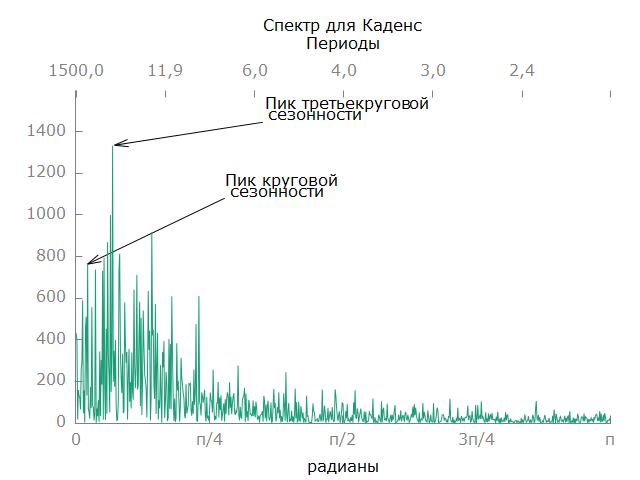
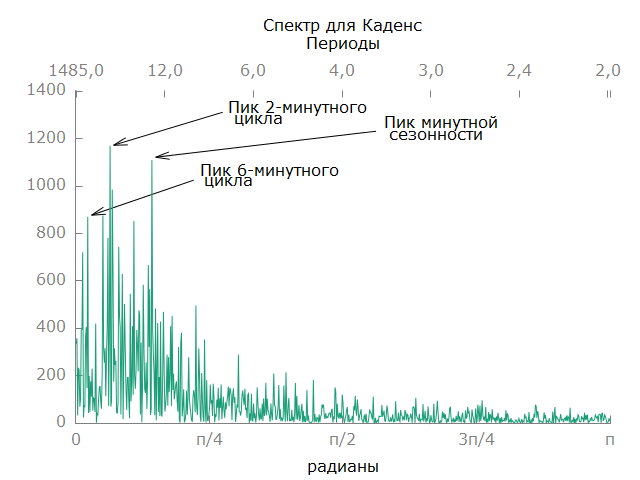
fix minutes

diff --git a/[text]/main.tex b/[text]/main.tex
@@ -10,7 +10,7 @@
 
 \section{Описание данных}
 % Период времени и тип данных
-Частота измерений каждые 4 секунды. Величину стандартного интервала наблюдений принимаем равным среднему времени прохождения спортсменом одного круга (около 6 минут).
+Частота измерений каждые 4 секунды. Величину стандартного интервала наблюдений принимаем равным одной минуте (содержит 15 измерений). 15 наблюдений откладываем для проверки прогностической способности моделей.
 
 % Гипотезы
 
@@ -33,7 +33,7 @@
 	\label{fig:hr_acf_100}
 \end{figure}
 
-График автокорреляции (рис. \ref{fig:hr_acf_100}) убывает медленно, предполагается наличие тренда. На графике видны колебания с периодом в треть круга (лаг 30), полкруга (лаг 45) и круг (лаг 88). При анализе графика значений зависимой переменной (рис. \ref{fig:hr_graph}) также хорошо видны круговые колебания. По виду графиков можно говорить о наличии периодического тренда с периодом, равным среднему времени прохождения спортсменом круга.
+График автокорреляции (рис. \ref{fig:hr_acf_100}) убывает медленно, предполагается наличие тренда. На графике видны колебания с периодом в 2 минуты (лаг 30), 3 минуты (лаг 45) и 6 минут (лаг 88). При анализе графика значений зависимой переменной (рис. \ref{fig:hr_graph}) также хорошо видны колебания в 6 минут. По виду графиков можно говорить о наличии циклического тренда с периодом, равным среднему времени прохождения спортсменом круга (около 6 минут).
 
 % Анализ спектрограммы
 \textbf{\textit{Анализ спектрограммы}}
@@ -45,17 +45,18 @@
 	\label{fig:hr_spectr}
 \end{figure}
 
-При анализе графика (рис. \ref{fig:hr_spectr}) видны пики вблизи нулевой частоты, они свидетельствуют о потенциальном наличии долгосрочного тренда. На графике также видны несколько пиков в циклической области спектра, следовательно, в данном ряде могут присутствовать циклы. 
-В сезонной части спектра на частоте $f = 0,07121 \approx \frac{\pi}{44}$ значение спектральной частоты равно $Sd = 2847,9$, указанная частота соответствует периоду круга. 
-На частоте $f = 0,14242 \approx \frac{\pi}{22}$ значение спектральной частоты равно $Sd = 665,40$, указанная частота соответствует периоду полукруга. 
-На частоте $f = 0,21363 \approx \frac{\pi}{15}$ значение спектральной частоты равно $Sd = 730,46$, указанная частота соответствует периоду в треть круга. Гармоническая составляющая в указанном ряду является хорошо выраженной.
+При анализе графика (рис. \ref{fig:hr_spectr}) видны пики вблизи нулевой частоты, они свидетельствуют о потенциальном наличии долгосрочного тренда. На графике также видны несколько пиков в циклической области спектра. 
+В циклической части спектра на частоте $f = 0,07193 \approx \frac{2 \pi}{87}$ значение спектральной частоты равно $Sd = 2814,4$, указанная частота соответствует периоду 6 минут (среднее время прохождения одного круга).
+На частоте $f = 0,20309 \approx \frac{2 \pi}{31}$ значение спектральной частоты равно $Sd = 1167,8$, указанная частота соответствует периоду в 2 минуты (треть круга).
+Пиков в сезонной части спектра нет. 
+Гармоническая составляющая в указанном ряду является хорошо выраженной.
 
 % Анализ стационарности с использованием критерия Dickey-Fuller
 
 %Выводы
 \textbf{\textit{Выводы}}
 
-Наличие долгосрочного тренда зависимой переменной Пульса объясняется тем, что с течением времени тренировки спортсмен устает, вследствие чего пульс постепенно увеличивается. Наличие кругового тренда объясняется тем, что рельеф местности каждый круг повторяется. Наличие сезонной частоты с периодом, равным половине круга связано с особенностями местности: каждые полкруга высота траектории движения сначала возрастала, а затем убывала. Наличие сезонной частоты с периодом, равным трети круга связано с периодичной сменой техники передвижения. %TODO
+Наличие долгосрочного тренда зависимой переменной Пульса объясняется тем, что с течением времени тренировки спортсмен устает, вследствие чего пульс постепенно увеличивается. Наличие циклического тренда в 6 минут объясняется тем, что рельеф местности каждый круг повторяется. Наличие циклической частоты с периодом, равным в 2 минуты (треть круга) связано с периодичной сменой техники передвижения. %TODO
 
 \subsection{Независимые переменные}
 \subsubsection{Высота}
@@ -77,7 +78,7 @@
 	\label{fig:ele_acf_100}
 \end{figure}
 
-График автокорреляции (рис. \ref{fig:ele_acf_100}) убывает медленно, предполагается наличие тренда. На графике видны колебания с периодом полкруга (лаг 45) и круг (лаг 88). При анализе графика значений переменной (рис. \ref{fig:ele_graph}) также хорошо видны круговые колебания. По виду графиков можно говорить о наличии периодического тренда с периодом, равным среднему времени прохождения спортсменом круга.
+График автокорреляции (рис. \ref{fig:ele_acf_100}) убывает медленно, предполагается наличие тренда. На графике видны колебания с периодом полкруга (3 минуты) и круг (6 минут). При анализе графика значений переменной (рис. \ref{fig:ele_graph}) также хорошо видны круговые колебания. По виду графиков можно говорить о наличии периодического тренда с периодом, равным среднему времени прохождения спортсменом круга.
 
 % Анализ спектрограммы
 \textbf{\textit{Анализ спектрограммы}}
@@ -89,8 +90,11 @@
 	\label{fig:ele_spectr}
 \end{figure}
 
-При анализе графика (рис. \ref{fig:hr_spectr}) видно, что пики вблизи нулевой частоты отсутствуют, долгосрочного тренда нет. На графике отсутствуют пики в циклической области спектра. 
-В сезонной части спектра на частоте $f = 0,07121 \approx \frac{\pi}{44}$ значение спектральной частоты равно $Sd = 1021,2$, указанная частота соответствует периоду круга. У данного ряда есть ярковыраженная сезонная составляющая.
+При анализе графика (рис. \ref{fig:hr_spectr}) видно, что пики вблизи нулевой частоты отсутствуют, долгосрочного тренда нет. На графике отсутствуют пики в сезонной области спектра. 
+В циклической части спектра на частоте $f = 0,07193 \approx \frac{2 \pi}{87}$ значение спектральной частоты равно $Sd = 938,12$, указанная частота соответствует периоду в 6 минут. 
+В циклической части спектра на частоте $f = 0,14386 \approx \frac{2 \pi}{44}$ значение спектральной частоты равно $Sd = 129,12$, указанная частота соответствует периоду в 3 минуты.
+В циклической части спектра на частоте $f = 0,22425 \approx \frac{2 \pi}{28}$ значение спектральной частоты равно $Sd = 97,627$, указанная частота соответствует периоду в 2 минуты.
+У данного ряда есть ярковыраженная циклическая составляющая.
 Также имеются другие неярковыраженные пики в сезонной части спектра.
 
 % Анализ стационарности с использованием критерия Dickey-Fuller
@@ -99,8 +103,7 @@
 \textbf{\textit{Выводы}}
 
 Долгосрочного тренда в рассматриваемом ряде быть не должно: спортсмен каждый круг проезжал по одной и той же территории, высота не изменялась. 
-Однако тренд в течение круга есть. Видно, что за круг высота сначала растет, а потом практически симметрично падает. Такая симметрия связана с особенностями местности, на которой снимались показания.
-Наличие кругового тренда объясняется тем, что рельеф местности каждый круг повторяется. Однако в изменениях высоты могут присутствовать незначительные колебания из-за того, что спортсмен каждый раз мог выбирать незначительно отличающуюся траекторию.
+Однако заметен циклический тренд с периодом в 6 минут. Наличие циклического тренда объясняется тем, что рельеф местности каждый круг повторяется. Однако в изменениях высоты могут присутствовать незначительные колебания из-за того, что спортсмен каждый раз мог выбирать незначительно отличающуюся траекторию.
 
 \subsubsection{Каденс}
 % Определение
@@ -134,8 +137,10 @@
 \end{figure}
 
 При анализе графика (рис. \ref{fig:cad_spectr}) видно, что пики вблизи нулевой частоты отсутствуют, долгосрочного тренда нет. На графике присутствуют пики в циклической области спектра. 
-В сезонной части спектра на частоте $f = 0,21782 \approx \frac{\pi}{14}$ значение спектральной частоты равно $Sd = 1331,6$, указанная частота соответствует периоду трети круга.
-Также имеются другие пики в сезонной части спектра.
+В циклической части спектра на частоте $f = 0,07193 \approx \frac{2 \pi}{87}$ значение спектральной частоты равно $Sd = 870,59$, указанная частота соответствует периоду в 6 минут.
+В циклической части спектра на частоте $f = 0,20309 \approx \frac{2 \pi}{31}$ значение спектральной частоты равно $Sd = 1170,6$, указанная частота соответствует периоду в 2 минуты.
+В сезонной части спектра на частоте $f = 0,44850 \approx \frac{2 \pi}{14}$ значение спектральной частоты равно $Sd = 1110,2$, указанная частота соответствует периоду в 1 минуту.
+Также имеются другие пики в циклической и сезонной частях спектра.
 
 % Анализ стационарности с использованием критерия Dickey-Fuller
 
@@ -143,7 +148,7 @@
 \textbf{\textit{Выводы}}
 
 Отсутствие тренда связано с тем, что используемая в конкретный момент техника передвижения спортсмена практически не зависит от техники, используемой в предыдущие моменты времени.
-Наличие сезонной частоты с периодом, равным трети круга связано с периодичностью применяемой техники передвижения. %TODO
+Наличие сезонной частоты с периодом в 2 минуты связано с периодичностью применяемой техники передвижения. %TODO
 
 \subsubsection{Сезонные переменные}
 
